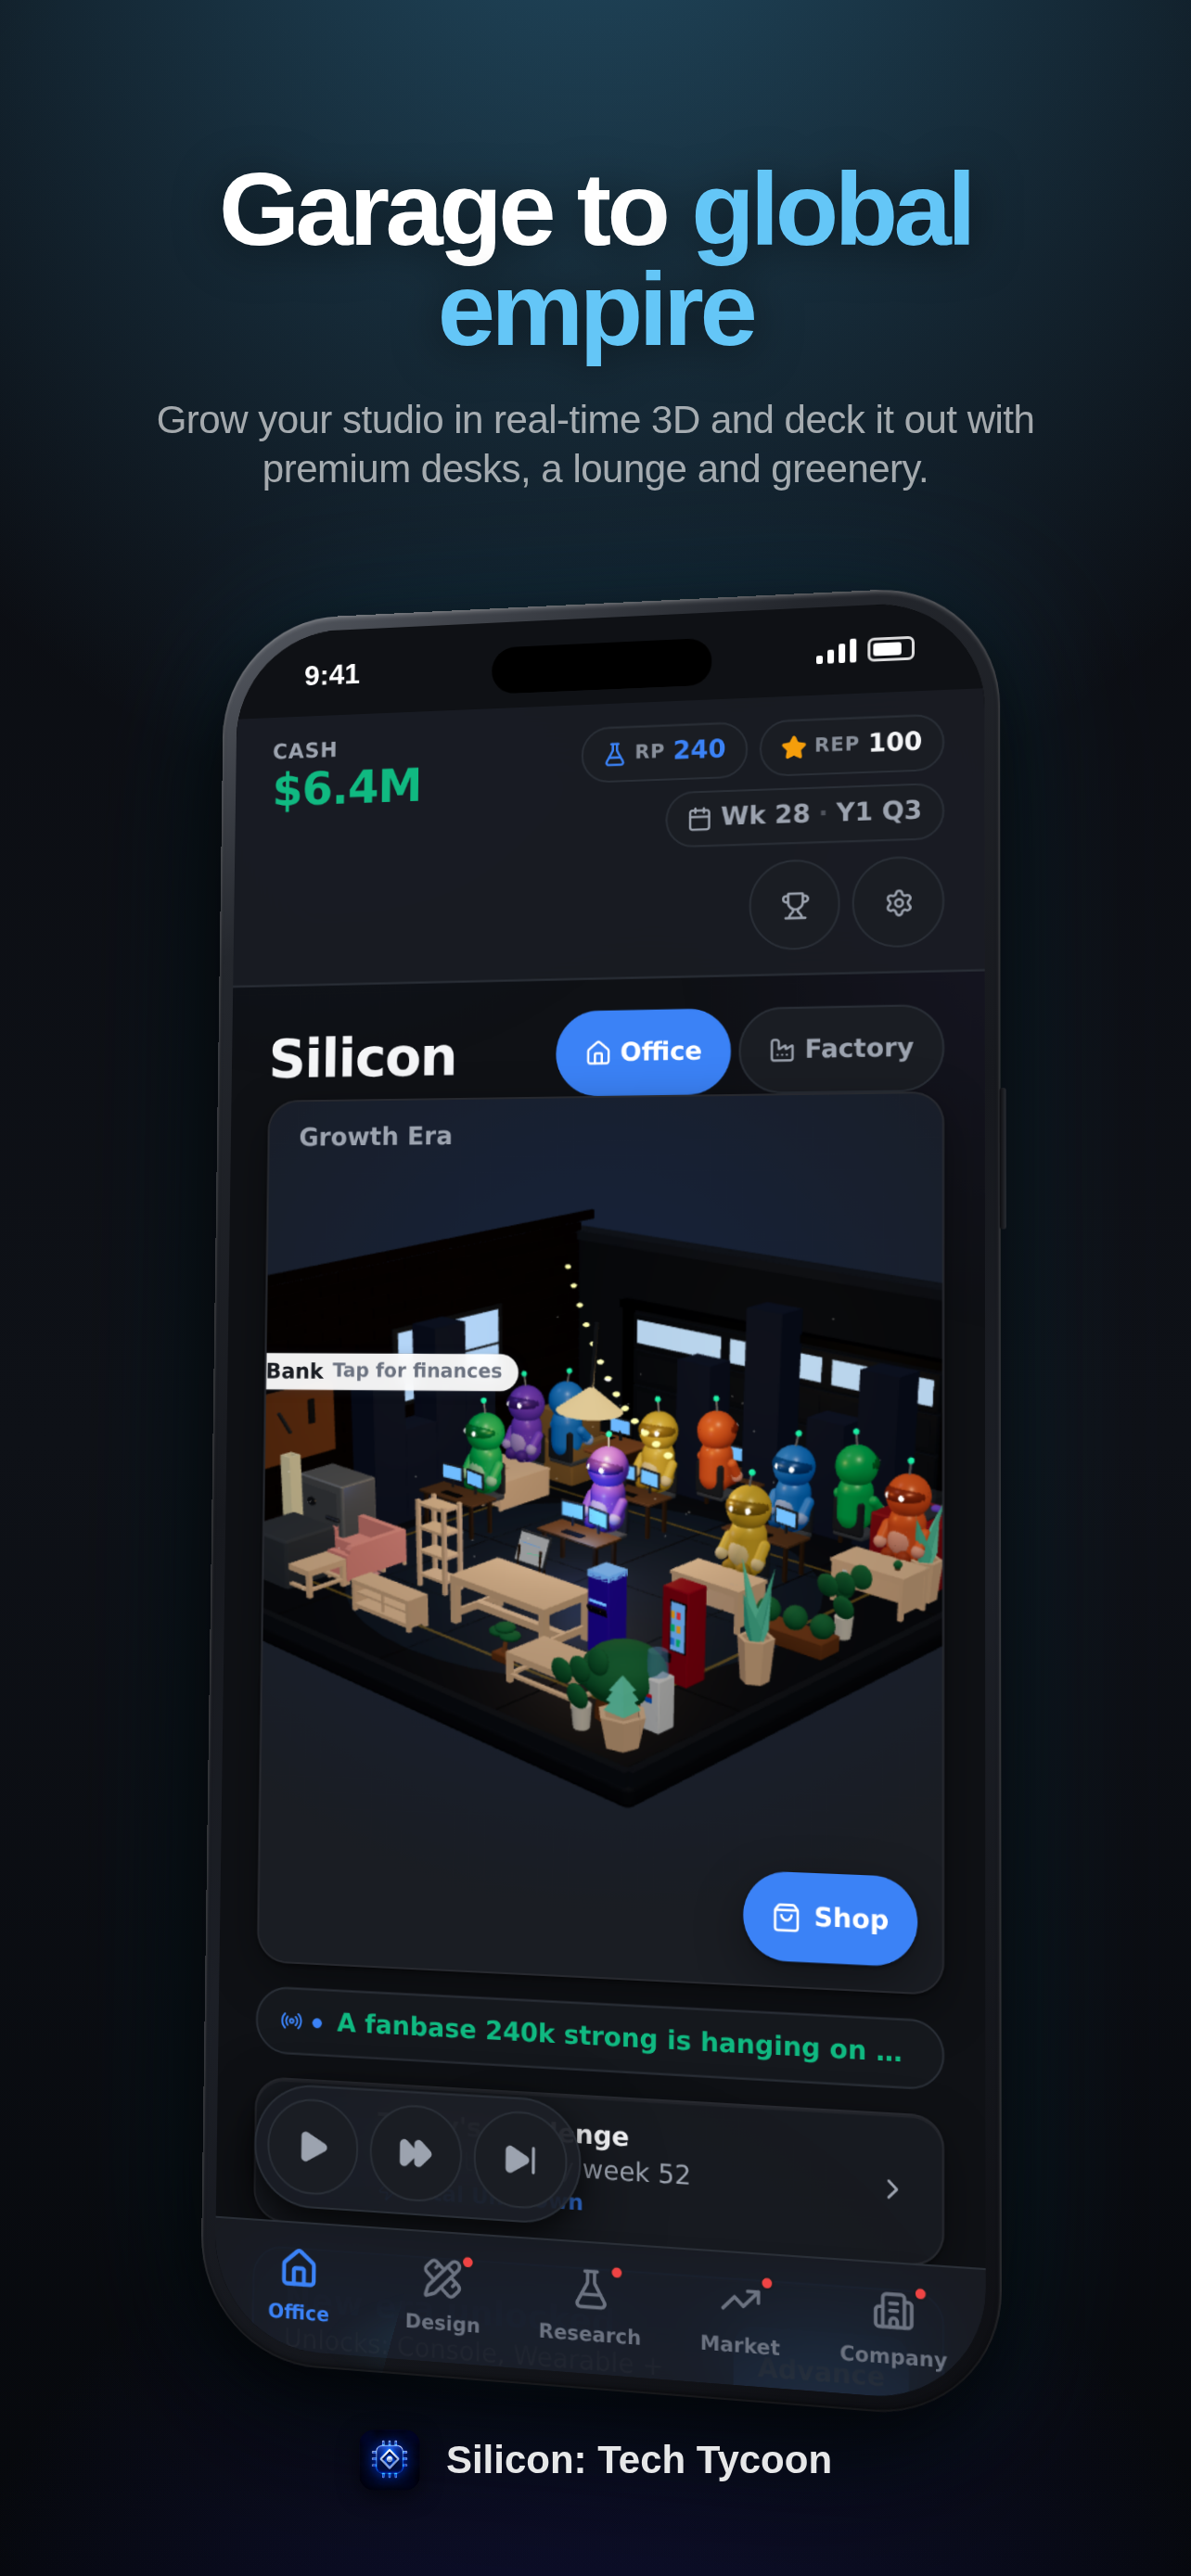
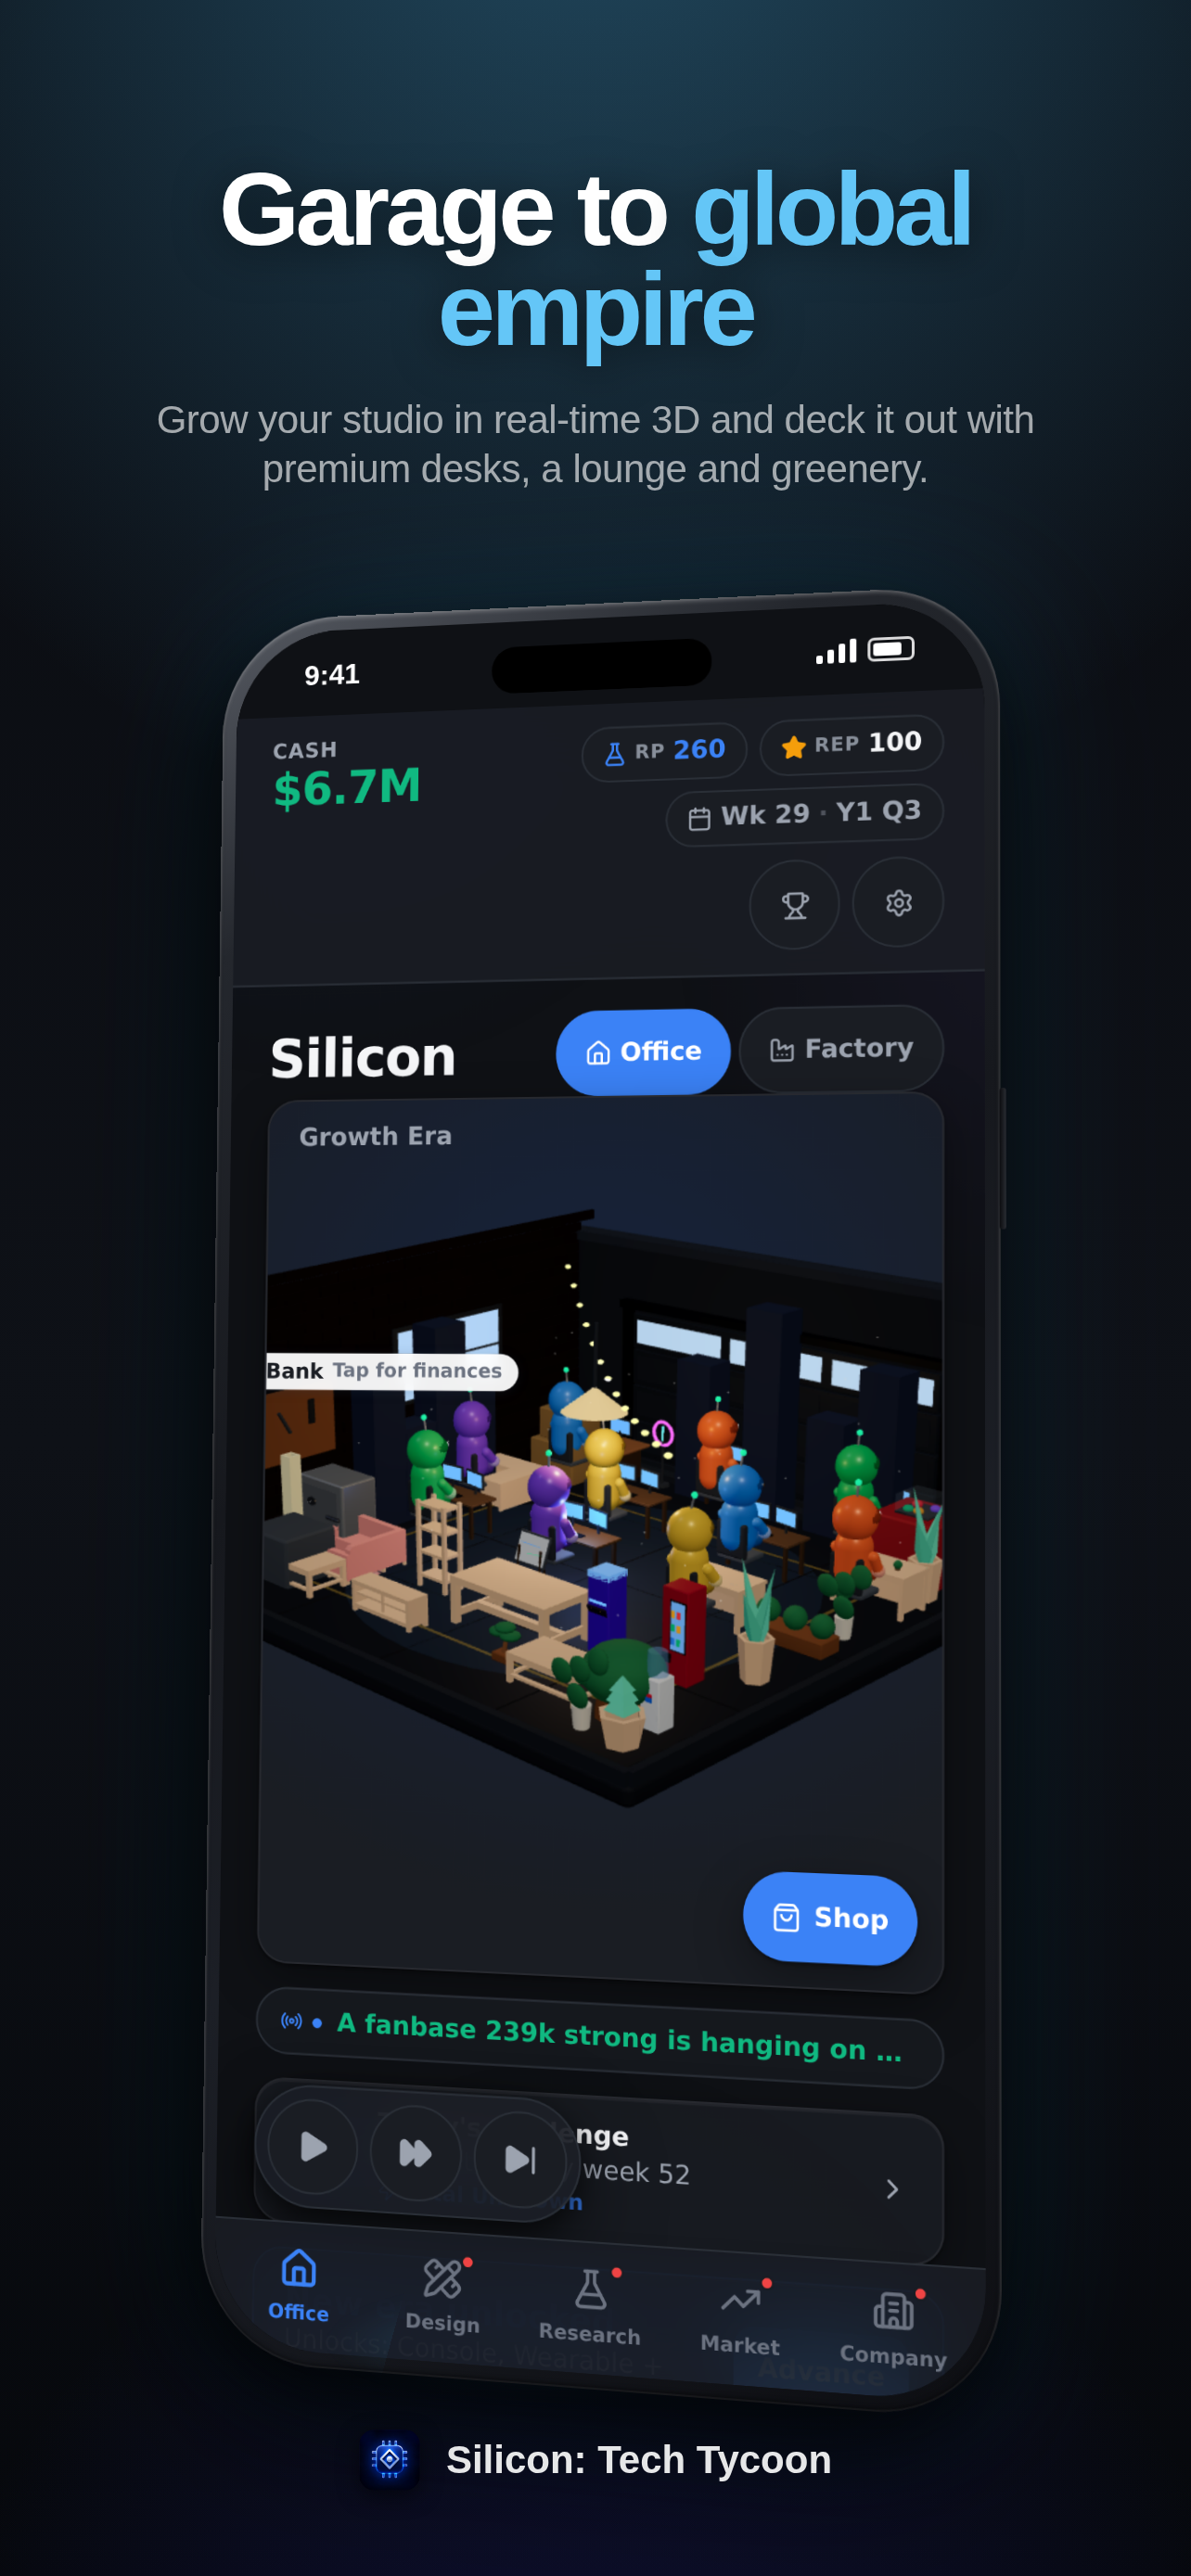
Seat office employees on their monitor's side (screens face the worker)
The desk model builds its monitor at the back of the desk with the screen
facing +z (the front) and the keyboard on the front edge — i.e. the desk is
designed for someone sitting on the FRONT (+z) side. But the Workstation
seated the employee on the BACK (-z) side by default, so every worker faced
the *back* of their own screen. Flip the default: employees now sit on the
desk's front, facing their monitor (screen toward them), viewed from behind
like a real workstation. The old back seat remains as the fallback only when
the front seat would fall off the open floor edge (a desk right at the
front/right lip). Scales correctly with the facility tier.

Refreshes the office + premium App Store frames to match.

Claude-Session: https://claude.ai/code/session_011Ebqgktz1uPUqnWwHKUxPu

Changed region(s): [[0.3427, 0.5263, 0.7788, 0.6192], [0.2804, 0.2786, 0.3115, 0.3096]]

diff --git a/src/garage3d/Garage3D.tsx b/src/garage3d/Garage3D.tsx
@@ -886,14 +886,18 @@ function RoamingRobot({ colorIdx, seed, home, radius = 1.1 }: { colorIdx: number
 // into the wall (and an empty chair poke through it). When the seat spot lands inside the walls,
 // flip the seat to the desk's FRONT instead: the figure works facing the wall, exactly like a
 // wall-facing desk in a real office. Checked in world space so every rotation is covered.
-const SEAT_BACK = 0.86; // chair (0.78) + seated-robot pullback (0.08) behind the desk origin
-const SEAT_LIMIT = 3.8; // beyond this the chair/robot visibly enters the ±4.2 walls (base grid)
-function seatFlipped(item: PlacedItem, facilityTier = 1): boolean {
+const SEAT_BACK = 0.86; // chair (0.78) + seated-robot pullback (0.08) from the desk origin
+const SEAT_LIMIT = 3.8; // a seat must stay this far inside the room (scaled by the facility)
+// The desk model seats its user on the +z ("front") side — that's the side the monitor SCREEN faces
+// and where the keyboard sits — so an employee normally sits on the front, FACING their screen (seen
+// from behind, like a real workstation). Only when that front seat would fall off the open floor edge
+// (a desk right at the front/right lip) do we seat them on the back instead, facing into the room.
+function seatFront(item: PlacedItem, facilityTier = 1): boolean {
   const w = worldOf(item, facilityTier);
-  const limit = SEAT_LIMIT * roomScaleFor(facilityTier); // walls scale out with the facility
-  const cx = w.x - Math.sin(w.rotY) * SEAT_BACK;
-  const cz = w.z - Math.cos(w.rotY) * SEAT_BACK;
-  return Math.abs(cx) > limit || Math.abs(cz) > limit;
+  const limit = SEAT_LIMIT * roomScaleFor(facilityTier); // room scales out with the facility
+  const fx = w.x + Math.sin(w.rotY) * SEAT_BACK;
+  const fz = w.z + Math.cos(w.rotY) * SEAT_BACK;
+  return Math.abs(fx) <= limit && Math.abs(fz) <= limit;
 }
 
 // A workstation = the player's placed desk model (which carries its own monitor) + the employee's
@@ -1574,7 +1578,7 @@ function BuildLayer({ p, b, hideIids, facilityTier = 1 }: { p: RoomPalette; b: B
             {isDeskType(it.type) && (() => {
               // Use the live (drag-adjusted) cell so the chair previews on the correct side while
               // the desk is being dragged toward a wall, not only after it drops.
-              const flip = seatFlipped({ ...it, c: cell.c, r: cell.r }, facilityTier);
+              const flip = seatFront({ ...it, c: cell.c, r: cell.r }, facilityTier);
               return (
                 <group position={[0, 0, flip ? 0.78 : -0.78]} rotation-y={flip ? Math.PI : 0}>
                   <Chair p={p} hue={p.metalDark} />
@@ -1750,7 +1754,7 @@ function Scene({ staff, facilityTier, hasProduction, upgrades, companyName, dark
         const w = worldOf(seats[i], facilityTier);
         return (
           <group key={s.id ?? i} position={[w.x, 0, w.z]} rotation-y={w.rotY}>
-            <Workstation p={p} staff={s} seed={i * 2.1} monitors={monitors} colorIdx={i % ROBOT_COLORS.length} deskType={seats[i].type} flip={seatFlipped(seats[i], facilityTier)} />
+            <Workstation p={p} staff={s} seed={i * 2.1} monitors={monitors} colorIdx={i % ROBOT_COLORS.length} deskType={seats[i].type} flip={seatFront(seats[i], facilityTier)} />
             {/* invisible tap target over the desk+robot → opens this person's roster card. A
                 transparent (not visible:false) mesh so the raycaster still hits it. */}
             {onTapStaff && s.id && (